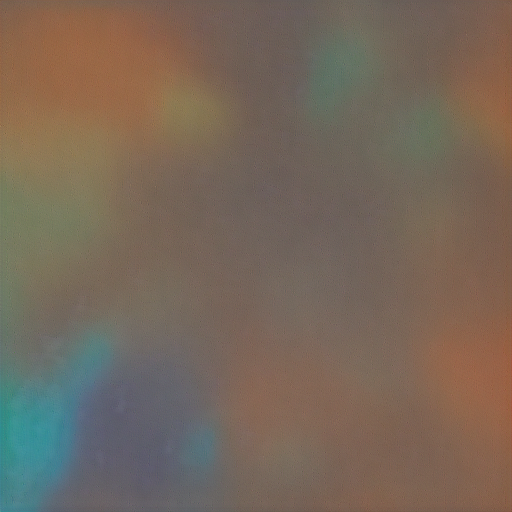
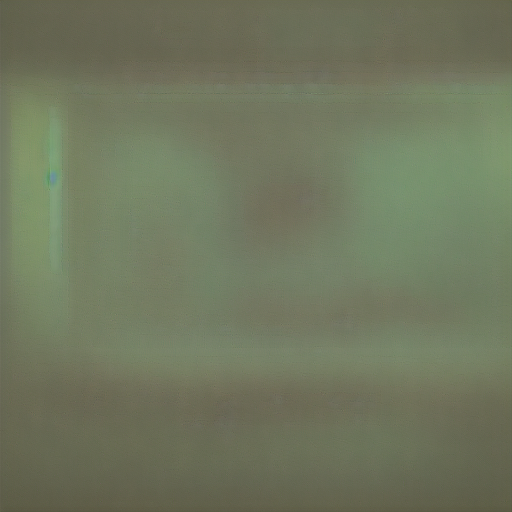
feat: integrate ZIL parser structures and 6502 assembly bin compiler outputs into 3D Tournament card saving

diff --git a/frontend/teddy_bear_tournament_3d.html b/frontend/teddy_bear_tournament_3d.html
@@ -1900,7 +1900,26 @@ Ready to initiate tournament match.</div>
                         phase: fighter2.phase,
                         sick: fighter2.sick
                     }
-                }
+                },
+                // ZIL story preview compiler output
+                zilSource: `<OBJECT TOURNAMENT-BEAR-${fighter1.name.toUpperCase().replace(/\s+/g, "-")}\n      (IN ROOM-10) ; Void\n      (DESC "${fighter1.name} Tournament Card")\n      (FLAGS TAKEBIT CONTBIT)\n      (SIZE ${Math.round(fighter1.hp)})\n      (VALUE ${Math.round(fighter1.spike * 100)})\n      (TIMBRE "${document.getElementById("synth-timbre")?.value || "sine"}")\n      (ADSR <ADSR-ENVELOPE\n            (ATTACK ${parseFloat(document.getElementById("synth-attack")?.value || 0.02)})\n            (DECAY ${parseFloat(document.getElementById("synth-decay")?.value || 0.30)})\n            (SUSTAIN ${parseFloat(document.getElementById("synth-sustain")?.value || 0.20)})\n            (RELEASE ${parseFloat(document.getElementById("synth-release")?.value || 0.15)})>)\n      (DNA <GENOME-SCALES\n            (HEAD ${parseFloat(document.getElementById("synth-head")?.value || 1.0)})\n            (TORSO ${parseFloat(document.getElementById("synth-torso")?.value || 1.0)})\n            (EARS ${parseFloat(document.getElementById("synth-ears")?.value || 1.0)})\n            (MUZZLE ${parseFloat(document.getElementById("synth-muzzle")?.value || 1.0)})\n            (ARMS ${parseFloat(document.getElementById("synth-arms")?.value || 1.0)})\n            (LEGS ${parseFloat(document.getElementById("synth-legs")?.value || 1.0)})\n            (FUR ${parseFloat(document.getElementById("synth-fur")?.value || 1.0)})>)\n>`,
+                // C64 assembly machine bin bytecode mapping to virtual DFS sectors
+                assemblyBin: (() => {
+                    // Pre-compile 6502 assembly instruction sets (e.g. LDA #headScale, STA $D000)
+                    const headVal = Math.round(parseFloat(document.getElementById("synth-head")?.value || 1.0) * 100);
+                    const bodyVal = Math.round(parseFloat(document.getElementById("synth-torso")?.value || 1.0) * 100);
+                    const earsVal = Math.round(parseFloat(document.getElementById("synth-ears")?.value || 1.0) * 100);
+                    
+                    // LDA #headVal ($A9 xx), STA $D000 ($8D 00 D0), LDA #bodyVal ($A9 xx), STA $D001 ($8D 01 D0), RTS ($60)
+                    let hex = "a9" + headVal.toString(16).padStart(2, '0');
+                    hex += "8d00d0";
+                    hex += "a9" + bodyVal.toString(16).padStart(2, '0');
+                    hex += "8d01d0";
+                    hex += "a9" + earsVal.toString(16).padStart(2, '0');
+                    hex += "8d02d0";
+                    hex += "60"; // Return from Subroutine
+                    return hex.padEnd(512, "0"); // Pad block payload size to full floppy sectors
+                })()
             });
 
             localStorage.setItem("tsfi_hardball_deck", JSON.stringify(savedDeck));